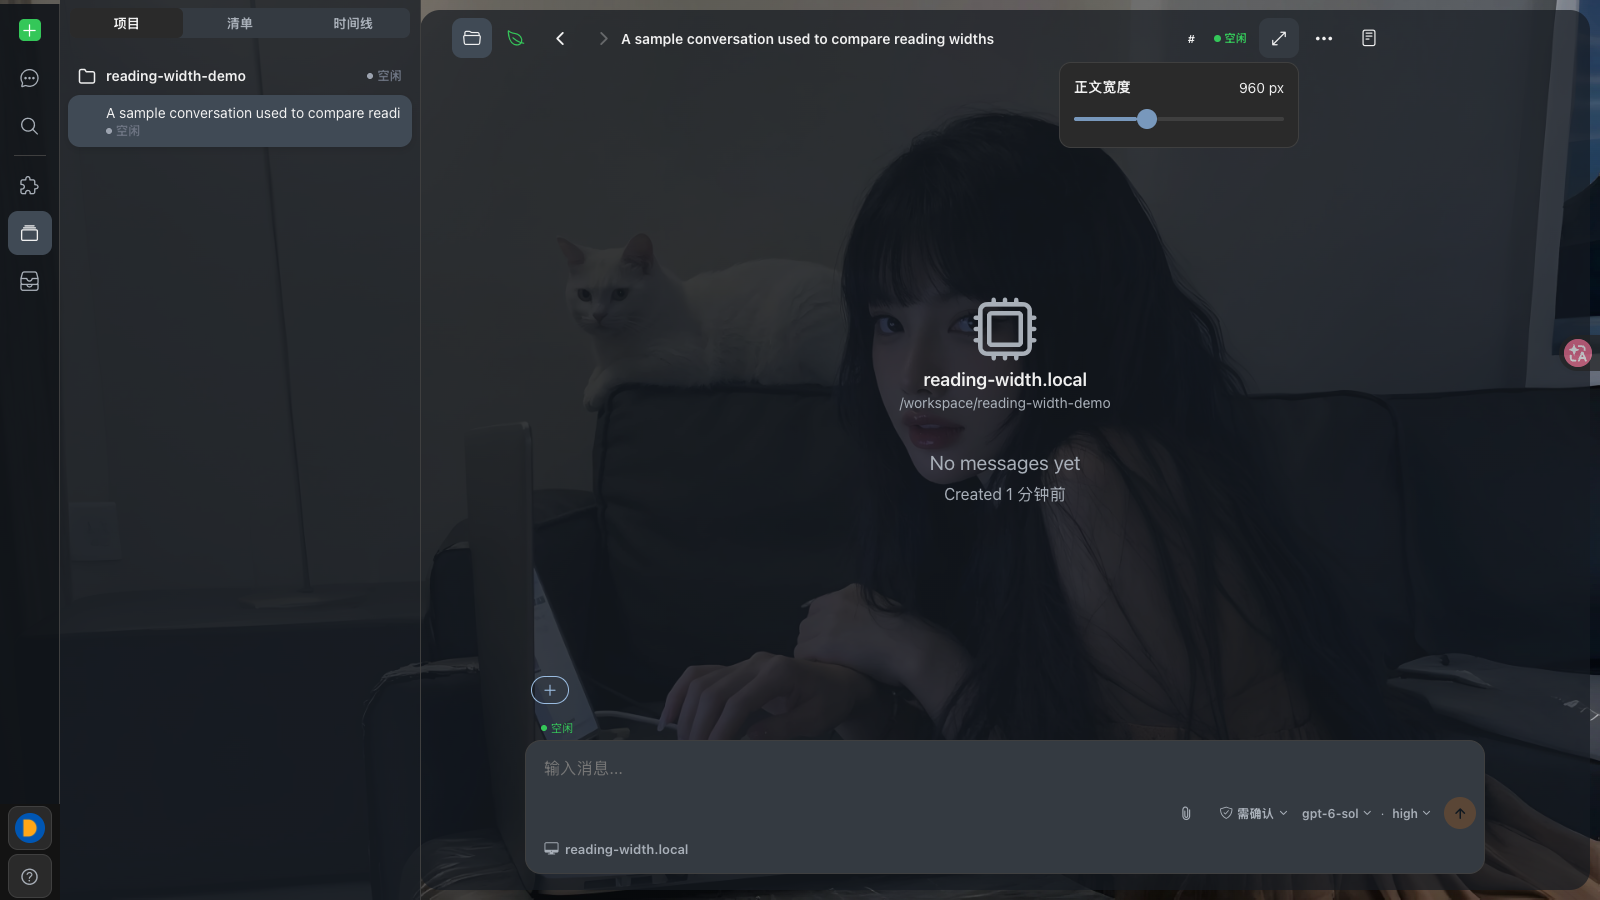
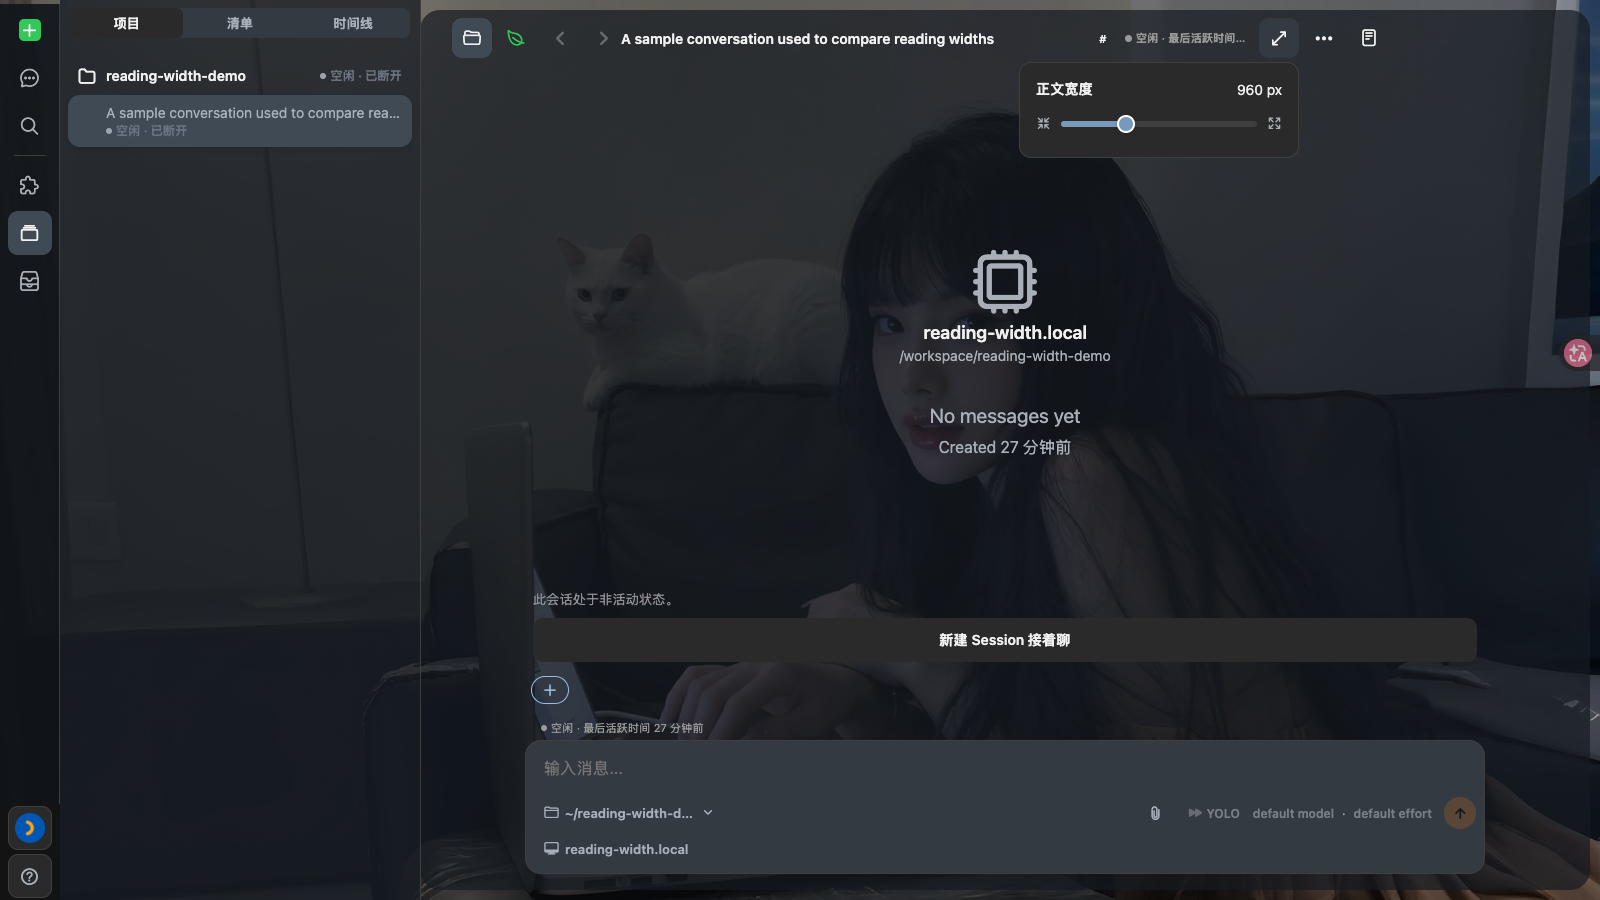
Use lightweight elastic reading width rail on web

diff --git a/packages/happy-app/sources/components/ReadingWidthRail.tsx b/packages/happy-app/sources/components/ReadingWidthRail.tsx
@@ -1,0 +1,121 @@
+import * as React from 'react';
+import { Ionicons } from '@expo/vector-icons';
+
+type ReadingWidthRailProps = {
+    value: number;
+    min: number;
+    max: number;
+    label: string;
+    accentColor: string;
+    trackColor: string;
+    iconColor: string;
+    onValueChange: (value: number) => void;
+    onValueCommit: (value: number) => void;
+};
+
+/** A small, web-only rail with pointer capture and an elastic edge response. */
+export function ReadingWidthRail({
+    value, min, max, label, accentColor, trackColor, iconColor, onValueChange, onValueCommit,
+}: ReadingWidthRailProps) {
+    const railRef = React.useRef<HTMLDivElement>(null);
+    const activePointer = React.useRef<number | null>(null);
+    const latestValue = React.useRef(value);
+    const [active, setActive] = React.useState(false);
+    const [hovered, setHovered] = React.useState(false);
+    const [stretch, setStretch] = React.useState(0);
+
+    React.useEffect(() => {
+        if (activePointer.current === null) latestValue.current = value;
+    }, [value]);
+
+    const clamp = (next: number) => Math.min(max, Math.max(min, next));
+    const updateFromPointer = (clientX: number) => {
+        const bounds = railRef.current?.getBoundingClientRect();
+        if (!bounds?.width) return;
+        const next = clamp(Math.round(min + ((clientX - bounds.left) / bounds.width) * (max - min)));
+        const outside = clientX < bounds.left ? clientX - bounds.left : clientX > bounds.right ? clientX - bounds.right : 0;
+        latestValue.current = next;
+        setStretch(Math.sign(outside) * Math.min(12, Math.abs(outside) * 0.2));
+        onValueChange(next);
+    };
+    const finishPointer = (event: React.PointerEvent<HTMLDivElement>) => {
+        if (activePointer.current !== event.pointerId) return;
+        if (event.type === 'pointerup') updateFromPointer(event.clientX);
+        activePointer.current = null;
+        setActive(false);
+        setStretch(0);
+        onValueCommit(latestValue.current);
+        if (event.currentTarget.hasPointerCapture(event.pointerId)) {
+            event.currentTarget.releasePointerCapture(event.pointerId);
+        }
+    };
+    const handleKeyDown = (event: React.KeyboardEvent<HTMLDivElement>) => {
+        const steps: Record<string, number> = {
+            ArrowLeft: -1, ArrowDown: -1, ArrowRight: 1, ArrowUp: 1,
+            PageDown: -10, PageUp: 10,
+        };
+        if (!(event.key in steps) && event.key !== 'Home' && event.key !== 'End') return;
+        event.preventDefault();
+        const next = clamp(event.key === 'Home' ? min : event.key === 'End' ? max : value + steps[event.key]);
+        latestValue.current = next;
+        onValueChange(next);
+        onValueCommit(next);
+    };
+    const percentage = max === min ? 0 : ((clamp(value) - min) / (max - min)) * 100;
+
+    return <div
+        role="slider"
+        tabIndex={0}
+        aria-label={label}
+        aria-valuemin={min}
+        aria-valuemax={max}
+        aria-valuenow={value}
+        aria-valuetext={`${value} px`}
+        data-testid="dreamskin-reading-width-slider"
+        onKeyDown={handleKeyDown}
+        onPointerDown={(event) => {
+            if (event.pointerType === 'mouse' && event.button !== 0) return;
+            activePointer.current = event.pointerId;
+            latestValue.current = value;
+            event.currentTarget.setPointerCapture(event.pointerId);
+            setActive(true);
+            updateFromPointer(event.clientX);
+        }}
+        onPointerMove={(event) => {
+            if (activePointer.current === event.pointerId) updateFromPointer(event.clientX);
+        }}
+        onPointerUp={finishPointer}
+        onPointerCancel={finishPointer}
+        onLostPointerCapture={finishPointer}
+        onPointerEnter={() => setHovered(true)}
+        onPointerLeave={() => setHovered(false)}
+        style={{
+            width: '100%', height: 34, display: 'flex', alignItems: 'center', gap: 10,
+            cursor: active ? 'grabbing' : 'grab', touchAction: 'none', userSelect: 'none',
+            borderRadius: 8, outlineColor: accentColor,
+        }}
+    >
+        <Ionicons name="contract-outline" size={15} color={iconColor} aria-hidden={true} />
+        <div ref={railRef} data-reading-width-track="true" aria-hidden="true" style={{
+            flex: 1, height: '100%', display: 'flex', alignItems: 'center',
+        }}>
+            <div style={{
+                width: '100%', height: active || hovered ? 8 : 6,
+                position: 'relative', borderRadius: 999,
+                backgroundColor: trackColor,
+                transform: `translateX(${stretch}px) scaleX(${1 + Math.abs(stretch) / 100})`,
+                transition: active ? 'height 160ms ease' : 'height 160ms ease, transform 320ms cubic-bezier(.2, 1.6, .3, 1)',
+            }}>
+                <div style={{ width: `${percentage}%`, height: '100%', backgroundColor: accentColor, borderRadius: 999 }} />
+                <div style={{
+                    position: 'absolute', top: '50%', left: `${percentage}%`,
+                    width: active || hovered ? 16 : 14, height: active || hovered ? 16 : 14,
+                    borderRadius: '50%', backgroundColor: accentColor,
+                    border: '2px solid white', boxShadow: '0 1px 5px rgba(0,0,0,.24)',
+                    transform: 'translate(-50%, -50%)', transition: 'width 160ms ease, height 160ms ease',
+                }} />
+            </div>
+        </div>
+        <Ionicons name="expand-outline" size={15} color={iconColor} aria-hidden={true} />
+    </div>;
+}

diff --git a/packages/happy-app/sources/-session/SessionView.tsx b/packages/happy-app/sources/-session/SessionView.tsx
@@ -68,7 +68,7 @@ import { isVersionSupported, MINIMUM_CLI_VERSION } from '@/utils/versionUtils';
 import * as Application from 'expo-application';
 import * as Clipboard from 'expo-clipboard';
 import { Ionicons, Octicons } from '@expo/vector-icons';
-import Slider from '@react-native-community/slider';
+import { ReadingWidthRail } from '@/components/ReadingWidthRail';
 import { useRouter, useNavigation } from 'expo-router';
 import { SessionRouteCoordinationError, type SessionRouteOwner } from '@/sync/sessionRouteOwnership';
 import { DrawerActions, useIsFocused } from '@react-navigation/native';
@@ -457,14 +457,6 @@ function DesktopReadingWidthControl() {
         pendingWidth.current = null;
     }, [setWidth]);
     // Keep dragging cheap: preview in memory and persist once the interaction ends.
-    const adjustWithKeyboard = (event: React.KeyboardEvent<HTMLDivElement>) => {
-        const change = { ArrowLeft: -1, ArrowDown: -1, ArrowRight: 1, ArrowUp: 1, PageDown: -10, PageUp: 10 }[event.key];
-        if (change === undefined && event.key !== 'Home' && event.key !== 'End') return;
-        event.preventDefault();
-        const nextWidth = event.key === 'Home' ? 800 : event.key === 'End' ? 1280 : width + (change ?? 0);
-        previewWidth(nextWidth);
-        commitWidth(nextWidth);
-    };
     React.useEffect(() => commitWidth, [commitWidth]);
     const [open, setOpen] = React.useState(false);
     const rootRef = React.useRef<View>(null);
@@ -500,7 +492,7 @@ function DesktopReadingWidthControl() {
         {open && <View
             accessibilityLabel={t('desktopWorkspace.readingWidth')}
             style={{
-                position: 'absolute', top: 44, right: 0, width: 240, padding: 14, borderRadius: 12,
+                position: 'absolute', top: 44, right: 0, width: 280, padding: 16, borderRadius: 12,
                 backgroundColor: theme.colors.surface, borderColor: theme.colors.divider, borderWidth: StyleSheet.hairlineWidth,
                 shadowColor: theme.colors.shadow.color, shadowOffset: { width: 0, height: 8 },
                 shadowOpacity: theme.colors.shadow.opacity, shadowRadius: 18, elevation: 12,
@@ -513,31 +505,17 @@ function DesktopReadingWidthControl() {
                 </Text>
                 <Text style={{ color: theme.colors.text, fontSize: 14, fontVariant: ['tabular-nums'] }}>{width} px</Text>
             </View>
-            {Platform.OS === 'web' && React.createElement('div', {
-                role: 'slider',
-                tabIndex: 0,
-                'aria-label': t('desktopWorkspace.readingWidth'),
-                'aria-valuemin': 800,
-                'aria-valuemax': 1280,
-                'aria-valuenow': width,
-                'aria-valuetext': `${width} px`,
-                onKeyDown: adjustWithKeyboard,
-                onBlur: () => commitWidth(),
-                style: { width: '100%', borderRadius: 8, outlineColor: theme.colors.accent },
-            }, <Slider
-                testID="dreamskin-reading-width-slider"
-                accessible={false}
-                minimumValue={800}
-                maximumValue={1280}
-                step={1}
+            {Platform.OS === 'web' && <ReadingWidthRail
                 value={width}
-                minimumTrackTintColor={theme.colors.accent}
-                maximumTrackTintColor={theme.colors.divider}
-                thumbTintColor={theme.colors.accent}
+                min={800}
+                max={1280}
+                label={t('desktopWorkspace.readingWidth')}
+                accentColor={theme.colors.accent}
+                trackColor={theme.colors.divider}
+                iconColor={theme.colors.textSecondary}
                 onValueChange={previewWidth}
-                onSlidingComplete={(value) => { previewWidth(value); commitWidth(value); }}
-                style={{ width: '100%', height: 28 }}
-            />)}
+                onValueCommit={(value) => { previewWidth(value); commitWidth(value); }}
+            />}
         </View>}
     </View>;
 }
@@ -729,7 +707,6 @@ const SessionViewContent = React.memo((props: { id: string }) => {
     const animatedRightPanelStyle = useAnimatedStyle(() => ({
         width: rightPanelAnim.value * rightPanelWidth,
         opacity: Platform.OS === 'web' ? 1 : rightPanelAnim.value,
-        overflow: Platform.OS === 'web' ? 'visible' as const : 'hidden' as const,
     }));
 
     const [sidebarMode, setSidebarMode] = React.useState<SidebarMode>('changes');
@@ -1396,6 +1373,7 @@ const SessionViewContent = React.memo((props: { id: string }) => {
                         workspaceStyles.desktopPanel,
                         { width: rightPanelWidth },
                         Platform.OS === 'web' && workspaceStyles.desktopPanelWeb,
+                        Platform.OS === 'web' && !showDesktopRightPanel && { display: 'none' },
                     ]}
                     testID="desktop-right-panel-motion"
                 >

diff --git a/packages/happy-app/sources/components/ReadingWidthRail.test.tsx b/packages/happy-app/sources/components/ReadingWidthRail.test.tsx
@@ -1,0 +1,70 @@
+import * as React from 'react';
+import { act } from 'react';
+import { afterEach, beforeEach, describe, expect, it, vi } from 'vitest';
+import { ReadingWidthRail } from './ReadingWidthRail';
+
+// @ts-expect-error The test only needs the small create/unmount surface typed below.
+import TestRenderer from 'react-test-renderer';
+
+vi.mock('@expo/vector-icons', () => ({ Ionicons: 'Ionicons' }));
+
+const props = () => ({
+    value: 960,
+    min: 800,
+    max: 1280,
+    label: '正文宽度',
+    accentColor: '#88aacc',
+    trackColor: '#333333',
+    iconColor: '#999999',
+    onValueChange: vi.fn(),
+    onValueCommit: vi.fn(),
+});
+
+describe('ReadingWidthRail', () => {
+    beforeEach(() => { (globalThis as { IS_REACT_ACT_ENVIRONMENT?: boolean }).IS_REACT_ACT_ENVIRONMENT = true; });
+    afterEach(() => { delete (globalThis as { IS_REACT_ACT_ENVIRONMENT?: boolean }).IS_REACT_ACT_ENVIRONMENT; });
+
+    it('previews pointer movement and commits the clamped value once after release outside the rail', () => {
+        const input = props();
+        const captured = new Set<number>();
+        const target = {
+            setPointerCapture: (id: number) => captured.add(id),
+            hasPointerCapture: (id: number) => captured.has(id),
+            releasePointerCapture: (id: number) => captured.delete(id),
+        };
+        let renderer: any;
+        act(() => {
+            renderer = TestRenderer.create(<ReadingWidthRail {...input} />, {
+                createNodeMock: (element: any) => element.props['data-reading-width-track'] === 'true'
+                    ? { getBoundingClientRect: () => ({ left: 10, right: 210, width: 200 }) }
+                    : null,
+            });
+        });
+        const rail = renderer.root.findByProps({ role: 'slider' });
+        act(() => rail.props.onPointerDown({ pointerType: 'mouse', button: 0, pointerId: 1, clientX: 10, currentTarget: target }));
+        act(() => rail.props.onPointerMove({ pointerId: 1, clientX: 110 }));
+        expect(input.onValueChange).toHaveBeenLastCalledWith(1040);
+        expect(input.onValueCommit).not.toHaveBeenCalled();
+        act(() => rail.props.onPointerUp({ type: 'pointerup', pointerId: 1, clientX: 280, currentTarget: target }));
+        act(() => rail.props.onLostPointerCapture({ type: 'lostpointercapture', pointerId: 1, currentTarget: target }));
+        expect(input.onValueChange).toHaveBeenLastCalledWith(1280);
+        expect(input.onValueCommit).toHaveBeenCalledExactlyOnceWith(1280);
+        expect(captured.size).toBe(0);
+        act(() => renderer.unmount());
+    });
+
+    it('supports keyboard precision and range endpoints', () => {
+        const input = props();
+        let renderer: any;
+        act(() => { renderer = TestRenderer.create(<ReadingWidthRail {...input} />); });
+        const rail = renderer.root.findByProps({ role: 'slider' });
+        expect(rail.props).toMatchObject({ 'aria-valuemin': 800, 'aria-valuemax': 1280, 'aria-valuenow': 960 });
+        const preventDefault = vi.fn();
+        act(() => rail.props.onKeyDown({ key: 'ArrowRight', preventDefault }));
+        expect(input.onValueCommit).toHaveBeenLastCalledWith(961);
+        act(() => rail.props.onKeyDown({ key: 'End', preventDefault }));
+        expect(input.onValueCommit).toHaveBeenLastCalledWith(1280);
+        expect(preventDefault).toHaveBeenCalledTimes(2);
+        act(() => renderer.unmount());
+    });
+});

diff --git a/packages/happy-app/sources/-session/SessionView.agentSpace.test.tsx b/packages/happy-app/sources/-session/SessionView.agentSpace.test.tsx
@@ -18,7 +18,7 @@ import { SessionView } from './SessionView';
 // @ts-expect-error The test only needs the small create/unmount surface typed below.
 import TestRenderer from 'react-test-renderer';
 
-vi.mock('@react-native-community/slider', () => ({ default: 'ReadingWidthSlider' }));
+vi.mock('@/components/ReadingWidthRail', () => ({ ReadingWidthRail: 'ReadingWidthRail' }));
 
 const mocks = vi.hoisted(() => ({
     closePanel: vi.fn(),
@@ -911,23 +911,18 @@ describe('SessionView Agent-space boundary', () => {
         const widthButton = renderer.root.findByProps({ testID: 'dreamskin-reading-width-button' });
         act(() => widthButton.props.onPress());
         expect(renderer.root.findByProps({ testID: 'dreamskin-reading-width-menu' })).toBeDefined();
-        const slider = renderer.root.findByProps({ testID: 'dreamskin-reading-width-slider' });
-        expect(slider.props).toMatchObject({ minimumValue: 800, maximumValue: 1280, step: 1, value: 960 });
-        const keyboardControl = renderer.root.findByProps({ 'aria-valuemin': 800 });
-        expect(keyboardControl.props).toMatchObject({ 'aria-valuenow': 960, 'aria-valuetext': '960 px' });
+        const slider = renderer.root.findByType('ReadingWidthRail');
+        expect(slider.props).toMatchObject({ min: 800, max: 1280, value: 960 });
+        expect(renderer.root.findByProps({ testID: 'desktop-right-panel-motion' }).props.style).toContainEqual({ display: 'none' });
         for (const value of [800, 1037, 1280]) {
             act(() => slider.props.onValueChange(value));
             expect(mocks.previewLocalSettings).toHaveBeenLastCalledWith({ localSettings: { desktopReadingWidth: value } });
         }
         expect(mocks.setDesktopReadingWidth).not.toHaveBeenCalled();
-        act(() => slider.props.onSlidingComplete(1280));
+        act(() => slider.props.onValueCommit(1280));
         expect(mocks.setDesktopReadingWidth).toHaveBeenCalledExactlyOnceWith(1280);
-        const preventDefault = vi.fn();
-        act(() => keyboardControl.props.onKeyDown({ key: 'ArrowRight', preventDefault }));
-        expect(preventDefault).toHaveBeenCalled();
-        expect(mocks.setDesktopReadingWidth).toHaveBeenLastCalledWith(961);
         act(() => slider.props.onValueChange(1001));
-        act(() => keyboardControl.props.onBlur());
+        act(() => slider.props.onValueCommit(1001));
         expect(mocks.setDesktopReadingWidth).toHaveBeenLastCalledWith(1001);
         expect(renderer.root.findAllByProps({ testID: 'dreamskin-reading-width-increase' })).toHaveLength(0);
         expect(renderer.root.findAllByProps({ testID: 'dreamskin-reading-width-decrease' })).toHaveLength(0);
